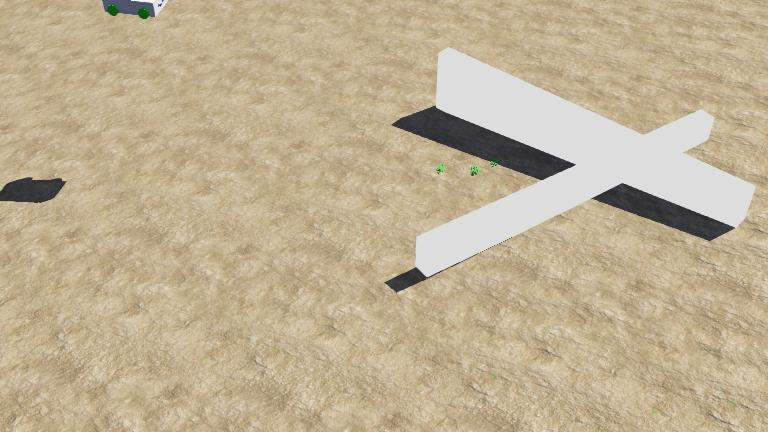
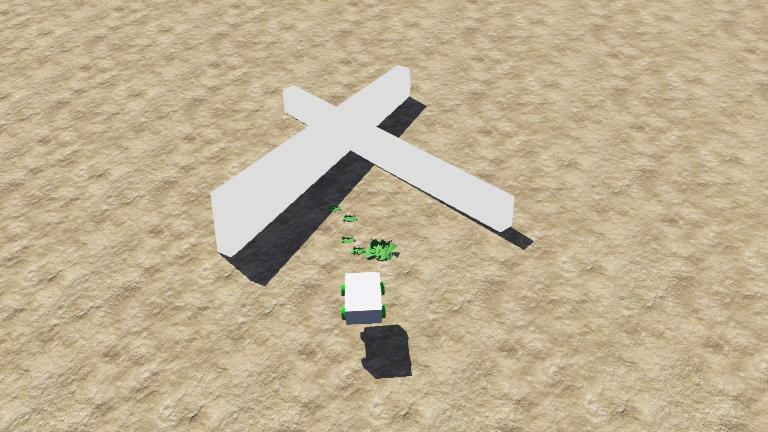
Further tracking algo improvements

diff --git a/Payload/payload_rover/rover_main.py b/Payload/payload_rover/rover_main.py
@@ -190,6 +190,9 @@ class Plant():
         self.last_seen = last_seen
 
 
+# TODO** Take into account the centers of the boxes
+# Boxes centered on same thing are probably looking at the same thing
+# Take into account time since last seen too??? More time since last seen, farther distance could've moved
 def getBoxDistance(box1, box2):
     dist = 0
     for i in range(4):
@@ -230,11 +233,13 @@ def idPlants(prevPlantMap: dict[Plant], inferences):
         for id, oldPlant in plantMap.items():
             dist = getBoxDistance(inference.box, oldPlant.inference.box)
             if dist < DISTANCE_THRESHOLD and dist < minDist:
-                bestId = id
+                bestId = -2
 
         if bestId == -1:
             id = generateId()
             plantMap[id] = Plant(inference, 0)
+        elif bestId == -2:
+            continue
         else:
             # Remove item at id from old list
             p = prevPlantMap.pop(bestId)